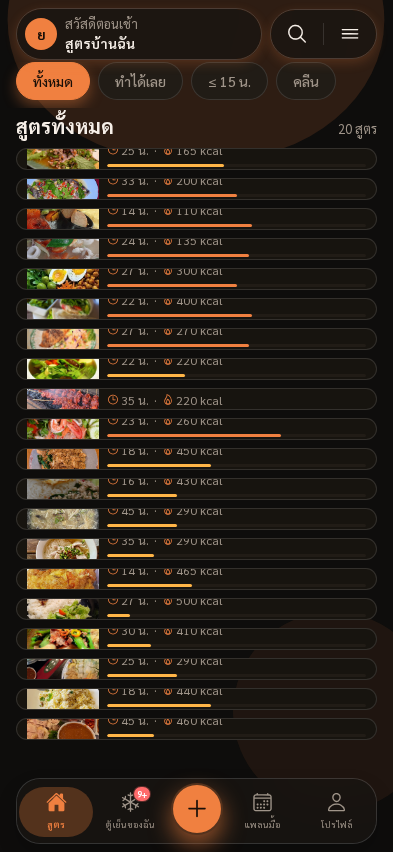
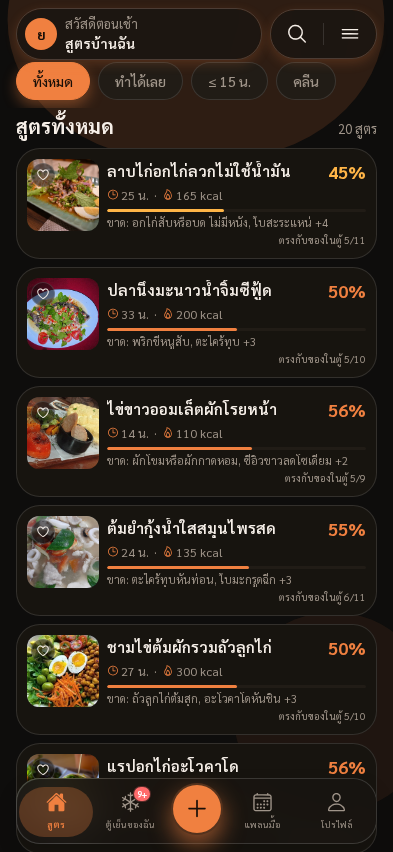
fix: prevent home recipe list cards collapsing on web
- Remove flex:1 from RecipeMenuCard base; minHeight 88px and flexShrink:0 on list rows
- Stop ScrollView content flexGrow from squeezing list children on home
- Guard fridge/planner/picker rows with minHeight and flexShrink:0
- Playwright bounding-box assert (>=72px) plus jest layout smoke tests

diff --git a/components/RecipeMenuCard.tsx b/components/RecipeMenuCard.tsx
@@ -31,6 +31,8 @@ type RecipeMenuCardProps = {
 };
 
 const LIST_THUMB = 72;
+/** Minimum list card height (design ~84–92px); used in styles and layout tests */
+export const RECIPE_LIST_CARD_MIN_HEIGHT = 88;
 
 export function RecipeMenuCard({
   recipe,
@@ -165,18 +167,20 @@ export function FridgeEmptyHintChip({ onPress }: { onPress?: () => void }) {
 
 const createStyles = (colors: ThemeColors) => StyleSheet.create({
   card: {
-    flex: 1,
     ...surfaceCard(colors),
     overflow: 'hidden',
     marginBottom: spacing.sm,
   },
   cardList: {
-    flex: 0,
+    flexGrow: 0,
+    flexShrink: 0,
+    flexBasis: 'auto',
     flexDirection: 'row',
-    alignItems: 'center',
+    alignItems: 'flex-start',
     alignSelf: 'stretch',
     width: '100%',
     maxWidth: '100%',
+    minHeight: RECIPE_LIST_CARD_MIN_HEIGHT,
     padding: 10,
     gap: spacing.sm,
     overflow: 'hidden',
@@ -226,9 +230,11 @@ const createStyles = (colors: ThemeColors) => StyleSheet.create({
   },
   bodyList: {
     flex: 1,
-    justifyContent: 'center',
+    flexShrink: 1,
+    justifyContent: 'flex-start',
     gap: 3,
     minWidth: 0,
+    minHeight: LIST_THUMB,
     paddingVertical: 2,
   },
   titleRow: {
@@ -249,8 +255,9 @@ const createStyles = (colors: ThemeColors) => StyleSheet.create({
   },
   percentBadge: {
     fontFamily: fonts.bold,
-    fontSize: 17,
-    lineHeight: 20,
+    fontSize: 18,
+    lineHeight: 22,
+    flexShrink: 0,
   },
   metaRow: {
     flexDirection: 'row',

diff --git a/__tests__/recipeListCardHeight.test.tsx b/__tests__/recipeListCardHeight.test.tsx
@@ -1,0 +1,26 @@
+import { RECIPE_LIST_CARD_MIN_HEIGHT, RecipeMenuCard } from '@/components/RecipeMenuCard';
+import { seedFridgeItems, seedRecipe } from '@/__tests__/fixtures/seed';
+import { matchRecipeToFridge } from '@/lib/fridgeMatch';
+import { renderWithProviders } from '@/__tests__/testProviders';
+
+describe('recipe list card layout', () => {
+  it('exports a minimum list card height at least 72px', () => {
+    expect(RECIPE_LIST_CARD_MIN_HEIGHT).toBeGreaterThanOrEqual(72);
+  });
+
+  it('renders list card with title and match percent visible', async () => {
+    const match = matchRecipeToFridge(seedRecipe, seedFridgeItems);
+    const { findByText, getByTestId } = renderWithProviders(
+      <RecipeMenuCard
+        recipe={seedRecipe}
+        layout="list"
+        fridgeMatch={match}
+        showFridgeSection
+        testID="recipe-list-card"
+      />,
+    );
+    await findByText(seedRecipe.title);
+    await findByText(/\d+%/);
+    expect(getByTestId('recipe-list-card')).toBeTruthy();
+  });
+});

diff --git a/app/(tabs)/planner.tsx b/app/(tabs)/planner.tsx
@@ -621,23 +621,25 @@ const createStyles = (colors: ThemeColors) => StyleSheet.create({
   },
   filledCard: {
     flexDirection: 'row',
-    alignItems: 'center',
+    alignItems: 'flex-start',
     gap: spacing.xs,
     backgroundColor: colors.white,
     borderRadius: radius.xl,
     borderWidth: 1,
     borderColor: colors.border,
     paddingRight: spacing.sm,
+    minHeight: 88,
+    flexShrink: 0,
   },
   filledMain: {
     flex: 1,
     flexDirection: 'row',
-    alignItems: 'center',
+    alignItems: 'flex-start',
     gap: spacing.md,
     padding: spacing.sm,
     minWidth: 0,
   },
-  mealThumb: { width: 72, height: 72 },
+  mealThumb: { width: 72, height: 72, flexShrink: 0 },
   filledBody: { flex: 1, gap: 4, minWidth: 0 },
   miniMatch: { flexDirection: 'row', alignItems: 'center', gap: spacing.sm, marginTop: 2 },
   miniProgressBg: {

diff --git a/__tests__/screens.smoke.test.tsx b/__tests__/screens.smoke.test.tsx
@@ -39,9 +39,12 @@ describe('screen smoke tests', () => {
   });
 
   it('renders Home with full-width recipe list', async () => {
-    const { findByText, findAllByText } = renderWithProviders(<HomeScreen />);
+    const { findByText, findAllByText, findAllByTestId } = renderWithProviders(<HomeScreen />);
     await findByText('ข้าวผัดไก่');
     expect((await findAllByText('สูตรทั้งหมด')).length).toBeGreaterThanOrEqual(1);
+    const cards = await findAllByTestId('recipe-list-card');
+    expect(cards.length).toBeGreaterThanOrEqual(1);
+    expect((await findAllByText(/\d+%/)).length).toBeGreaterThanOrEqual(1);
   });
 
   it('renders Search with results', async () => {

diff --git a/app/(tabs)/index.tsx b/app/(tabs)/index.tsx
@@ -115,7 +115,7 @@ const createStyles = (colors: ThemeColors) => StyleSheet.create({
     justifyContent: 'center',
   },
   scrollContent: {
-    flexGrow: 1,
+    flexGrow: 0,
     alignItems: 'stretch',
   },
   sectionHeader: {
@@ -132,5 +132,7 @@ const createStyles = (colors: ThemeColors) => StyleSheet.create({
   listContent: {
     paddingHorizontal: spacing.md,
     width: '100%',
+    flexGrow: 0,
+    flexShrink: 0,
   },
 });

diff --git a/app/(tabs)/picker.tsx b/app/(tabs)/picker.tsx
@@ -822,6 +822,7 @@ const createStyles = (colors: ThemeColors) => StyleSheet.create({
     overflow: 'hidden',
     borderWidth: 1,
     borderColor: colors.border,
+    flexShrink: 0,
   },
-  historyImage: { width: 64, height: 64 },
+  historyImage: { width: 64, height: 64, flexShrink: 0 },
 });

diff --git a/components/fridge/SwipeableFridgeRow.tsx b/components/fridge/SwipeableFridgeRow.tsx
@@ -91,6 +91,8 @@ const createStyles = (colors: ThemeColors) => StyleSheet.create({
     paddingLeft: 0,
     marginBottom: spacing.sm,
     overflow: 'hidden',
+    minHeight: 64,
+    flexShrink: 0,
   },
   accentBar: {
     width: 3,
